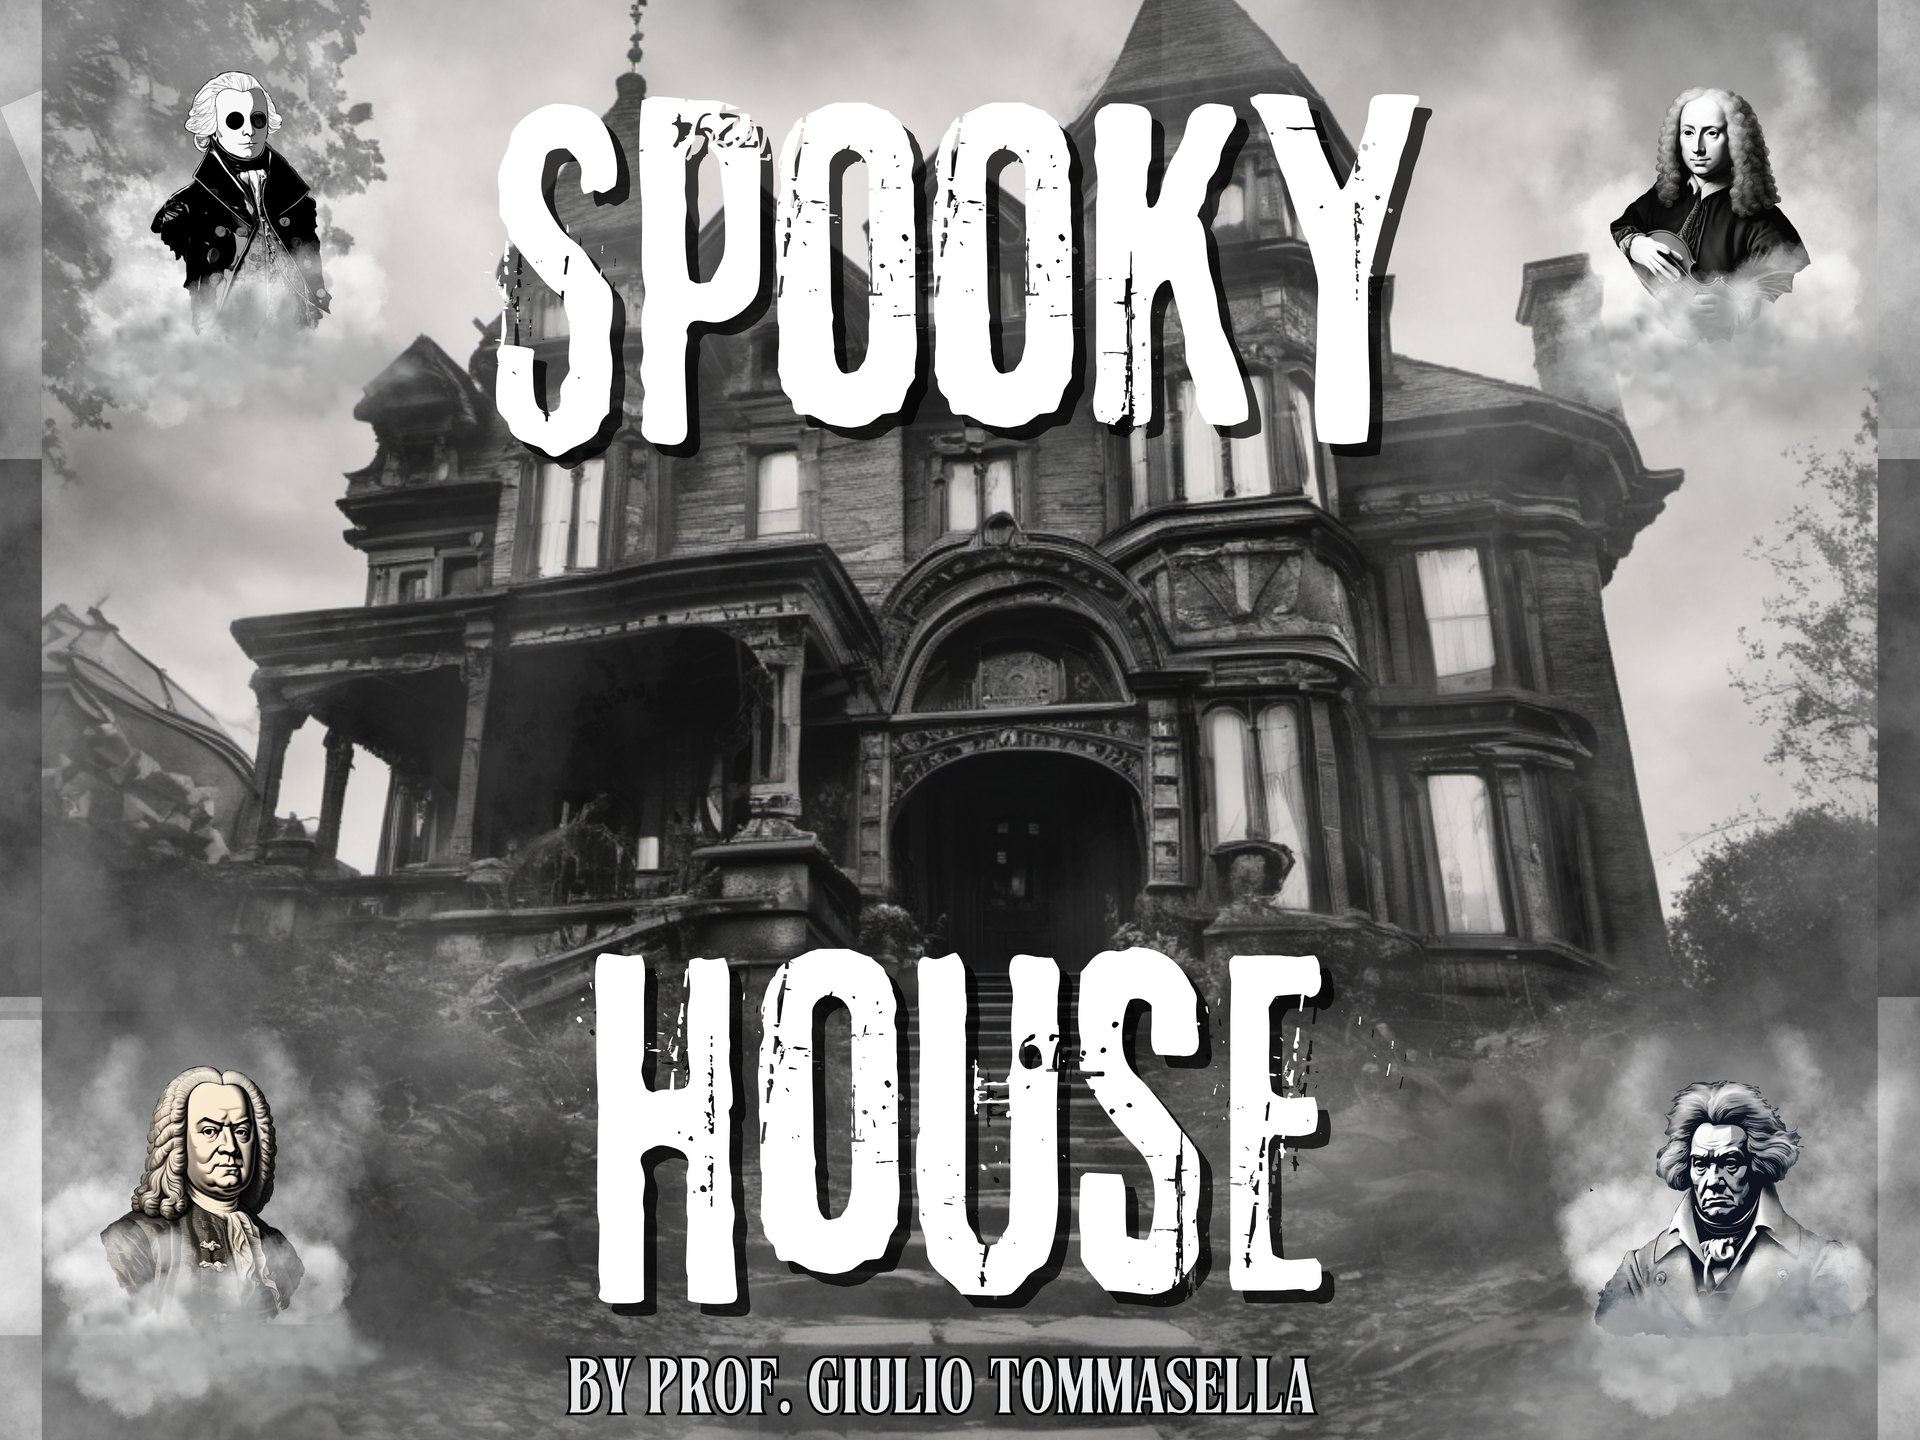
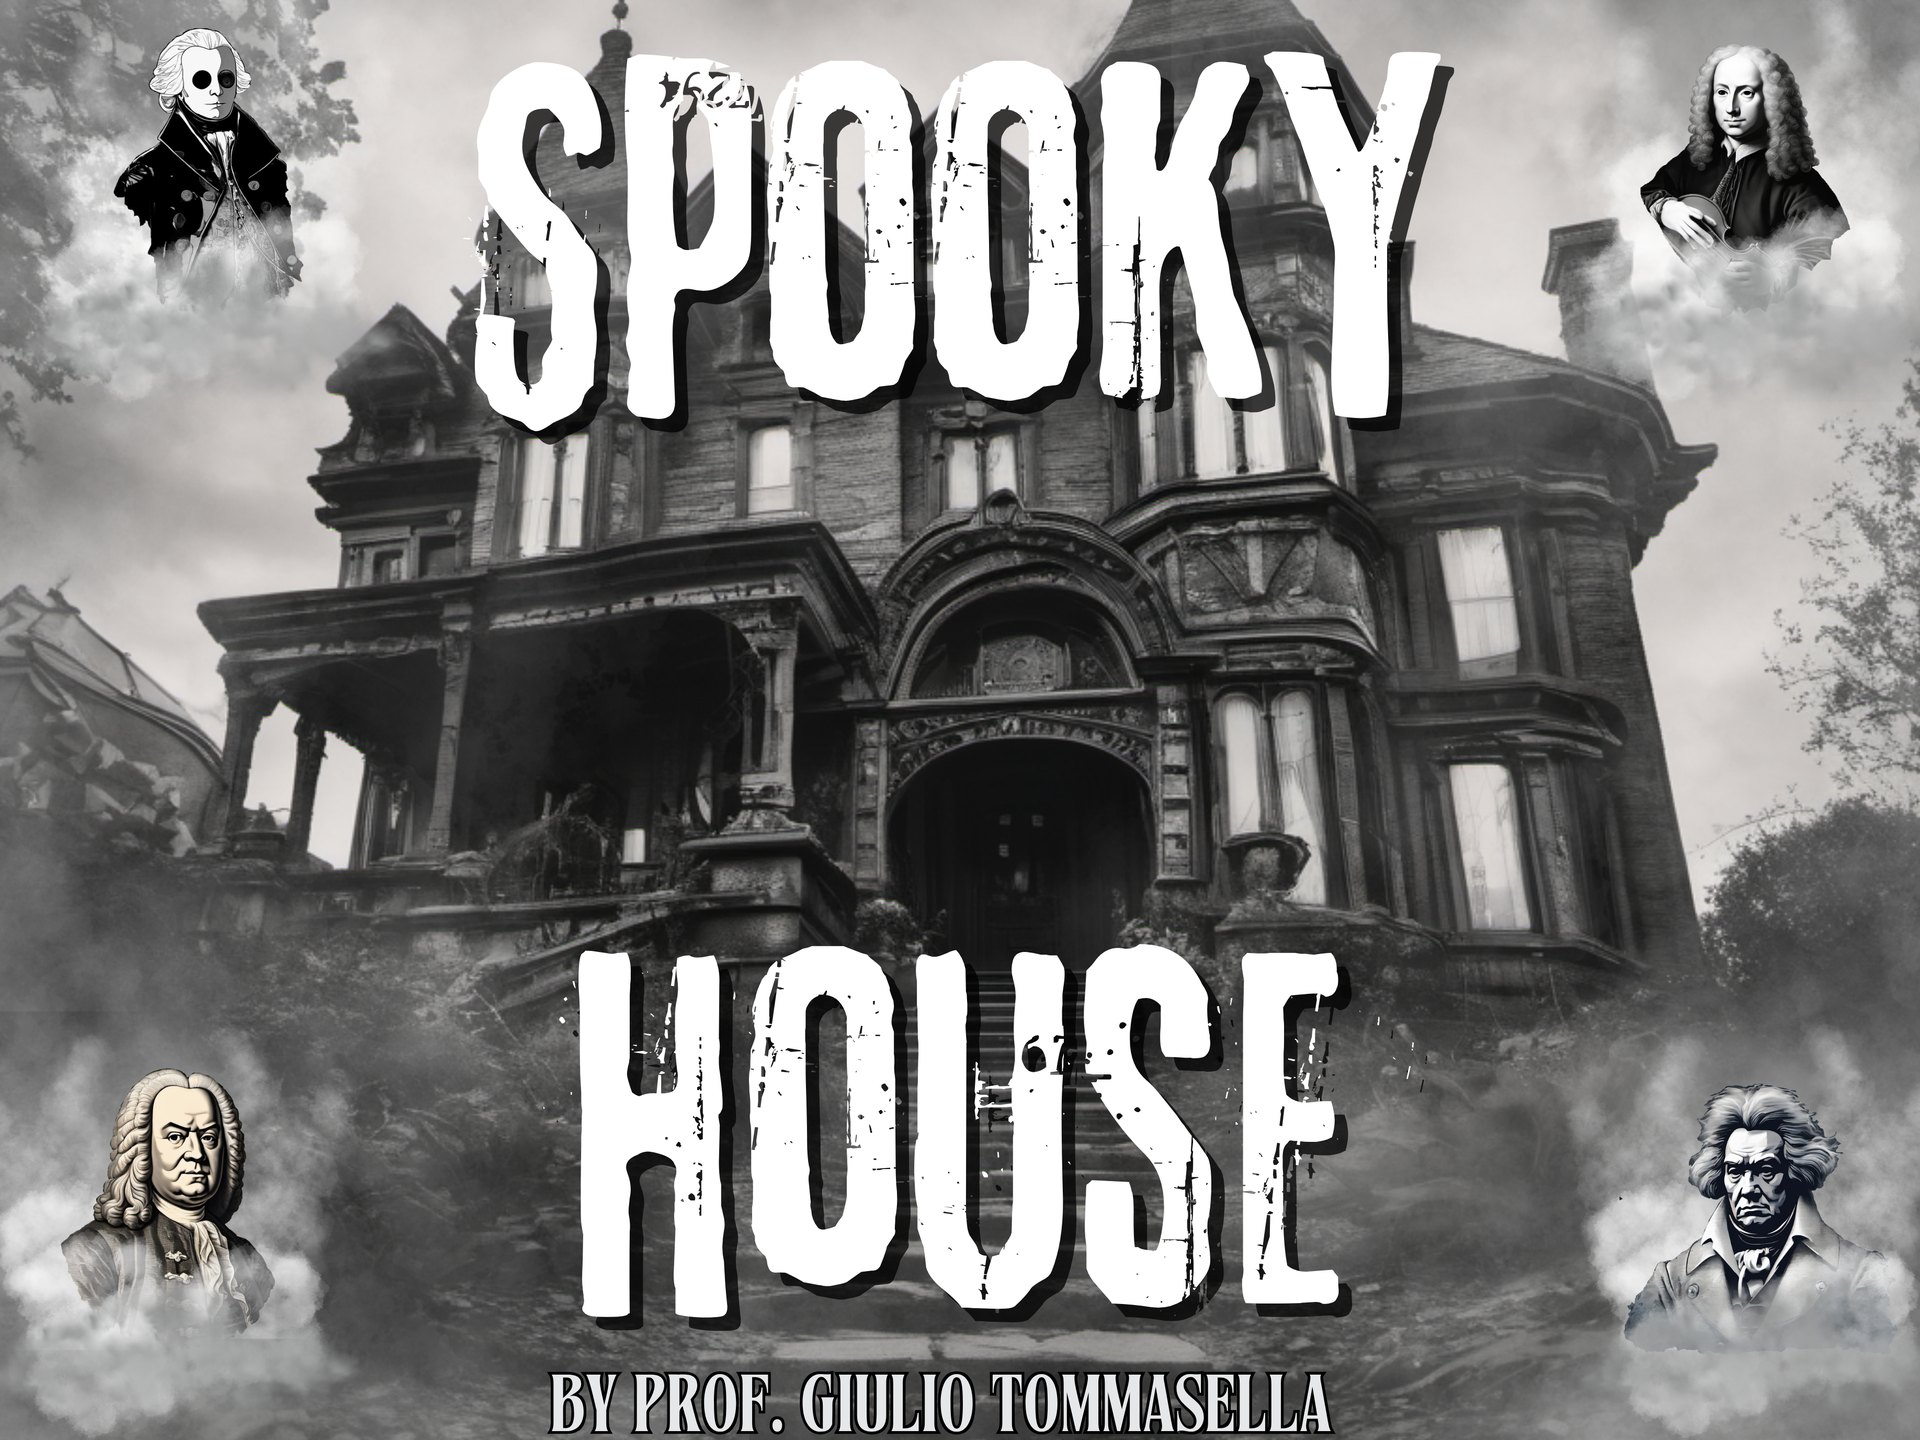
Copertina: tolte le strisce di riempimento ai lati
Claude-Session: https://claude.ai/code/session_01DCoAoqz3TR9KuqDW3sa7M8

diff --git a/js/gioco.js b/js/gioco.js
@@ -62,7 +62,7 @@
   const pronte = [];
   for (const n of Object.keys(STANZE)) if (n !== "21") pronte.push(carica("stanza" + n, `assets/img/stanze/${n}.jpg?v=3`));
   img.stanza21 = img.stanza0;
-  for (const n of ["copertina", "casa", "casa-fantasmi"]) pronte.push(carica(n, `assets/img/${n}.jpg?v=2`));
+  for (const n of ["copertina", "casa", "casa-fantasmi"]) pronte.push(carica(n, `assets/img/${n}.jpg?v=${n === "copertina" ? 3 : 2}`));
   for (const n of ["ragazzo-fermo", "ragazzo-passo1", "ragazzo-passo2", "ragazzo-torcia-fermo", "ragazzo-torcia-passo1", "ragazzo-torcia-passo2",
     "fantasma-sx", "fantasma-dx", "fantasma-libro-sx", "fantasma-libro-dx", "gargoyle-1", "gargoyle-2", "amici", "torcia",
     "chiave-piccola", "chiave-torre", "pallone", "armatura", "armadio"]) pronte.push(carica(n, `assets/img/${n}.png?v=4`));

diff --git a/index.html b/index.html
@@ -131,6 +131,6 @@
   <script src="js/stanze.js?v=5"></script>
   <script src="js/maschere.js?v=4"></script>
   <script src="js/traduzioni.js?v=3"></script>
-  <script src="js/gioco.js?v=18"></script>
+  <script src="js/gioco.js?v=19"></script>
 </body>
 </html>

diff --git a/strumenti/estrai.py b/strumenti/estrai.py
@@ -213,6 +213,16 @@ def main():
     # Copertine e sfondi del pianoforte (in Canva hanno lo stesso nome, senza spazi in fondo)
     for nome, file in [("Copertina 1 ", "copertina"), ("Copertina 2", "casa"), ("Copertina 3", "casa-fantasmi"), ("Copertina END", "fine")]:
         hd = file_hd(nome.strip())
+        if hd and file == "copertina":
+            # in Canva la copertina ha due strisce di riempimento ai lati (84 px su 3840): si tolgono,
+            # e per restare in 4:3 si toglie un po' anche sopra e sotto (sotto c'è la firma)
+            im = Image.open(hd).convert("RGBA")
+            w, h = im.size
+            x0, x1 = round(w * 84 / 3840), w - round(w * 85 / 3840)
+            alto = round((x1 - x0) * 3 / 4)
+            y0 = round((h - alto) * 0.7)
+            salva_jpg(im.crop((x0, y0, x1, y0 + alto)).resize((960 * LATO_HD, 720 * LATO_HD), Image.LANCZOS), f"{file}.jpg")
+            continue
         salva_jpg(Image.open(hd).convert("RGBA").resize((960 * LATO_HD, 720 * LATO_HD), Image.LANCZOS) if hd else sulla_scena("Sfondo", nome), f"{file}.jpg")
     for colore in ["blu", "carta", "legno"]:
         nome = "sfondo " + colore
